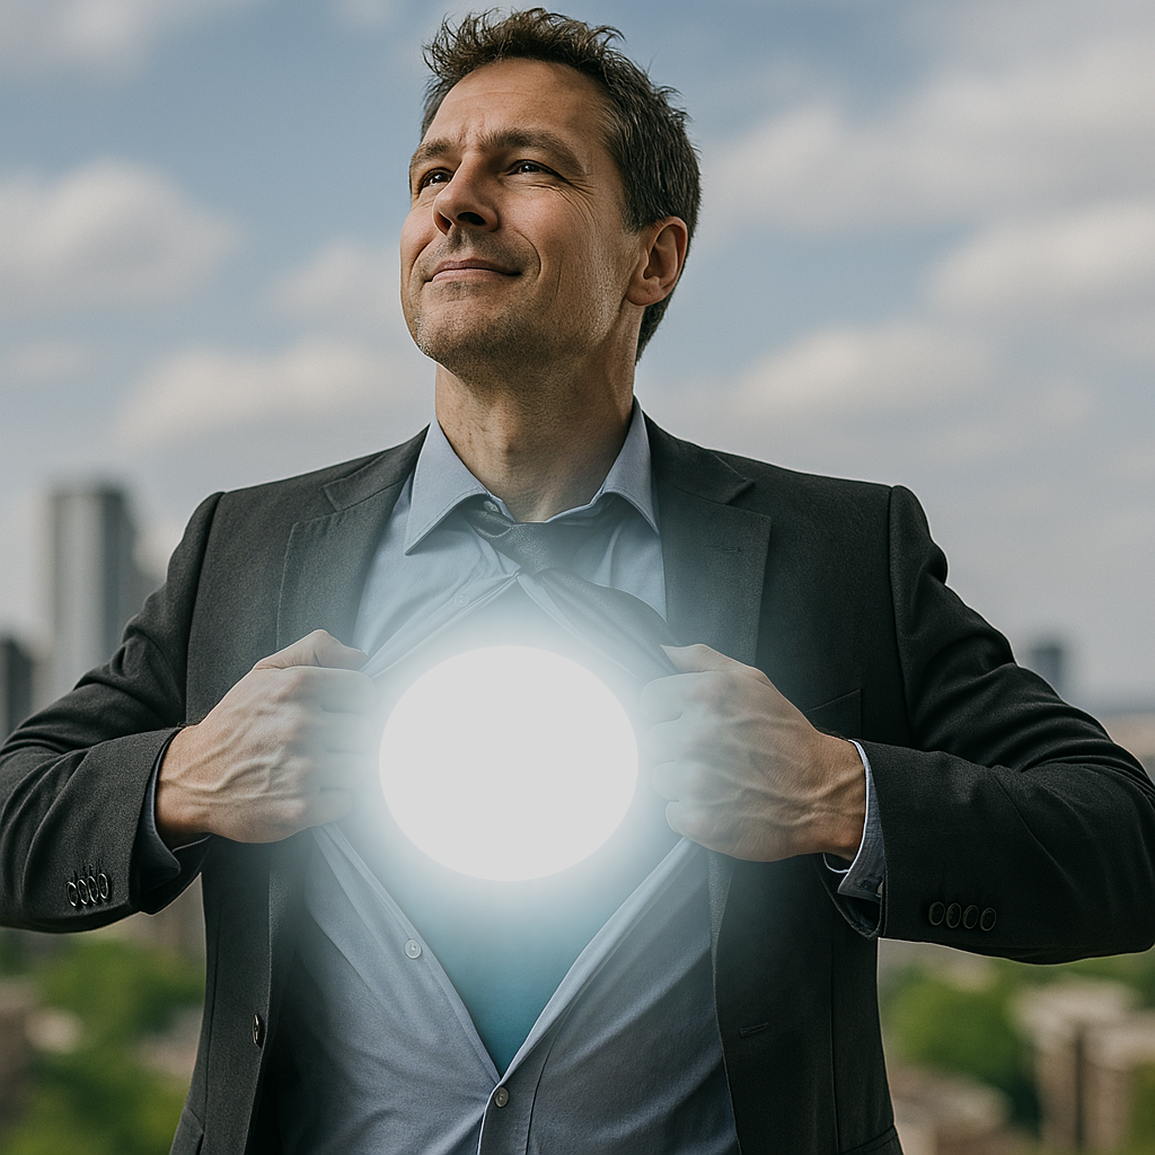
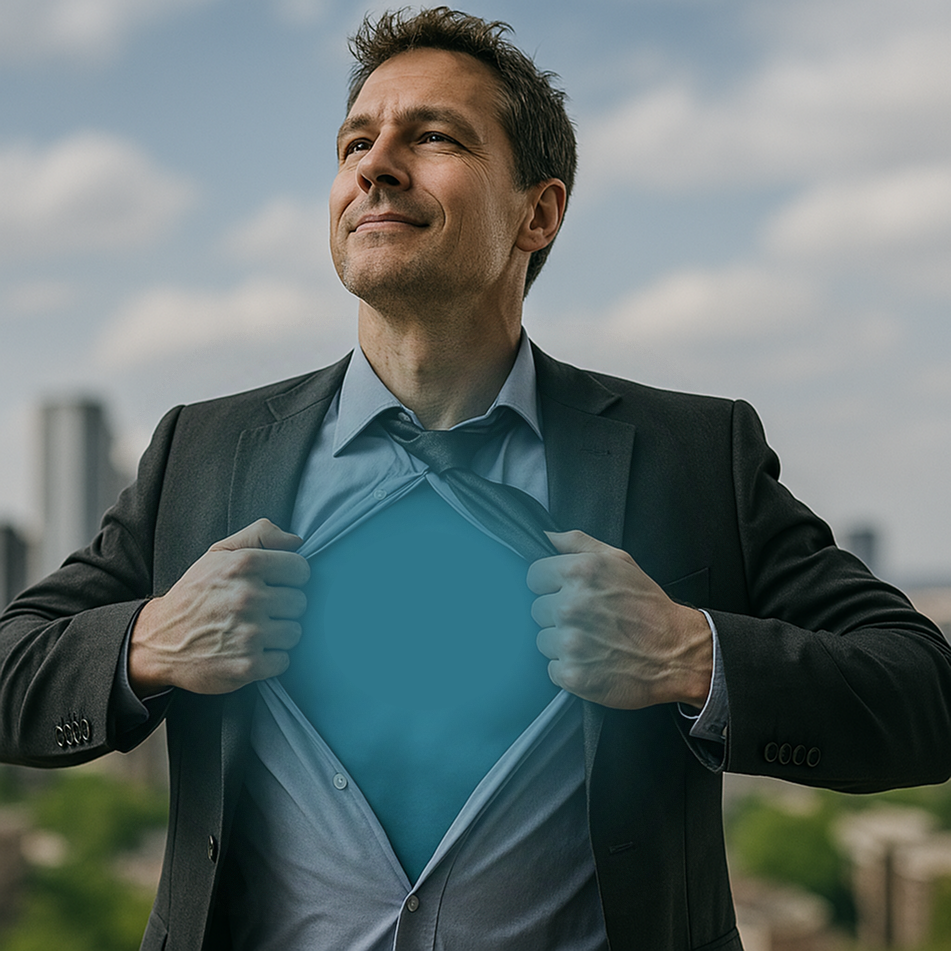
done

diff --git a/src/components/Approach.css b/src/components/Approach.css
@@ -254,6 +254,65 @@
   box-shadow: 0 20px 60px rgba(0, 0, 0, 0.3);
 }
 
+/* Floating Spinning Logo */
+.floating-logo {
+  position: absolute;
+  top: 65%;
+  left: 44%;
+  transform: translate(-50%, -50%);
+  width: 180px;
+  height: 170px;
+  z-index: 10;
+  animation: floatAndSpin 4s ease-in-out infinite;
+  filter: drop-shadow(0 0 20px rgba(255, 255, 255, 0.8))
+          drop-shadow(0 0 40px rgba(255, 255, 255, 0.5))
+          drop-shadow(0 0 60px rgba(255, 255, 255, 0.3));
+}
+
+.floating-logo img {
+  width: 100%;
+  height: 100%;
+  object-fit: contain;
+  border-radius: 0;
+  box-shadow: none;
+}
+
+@keyframes floatAndSpin {
+  0% {
+    transform: translate(-50%, -50%) translateY(0px) rotate(0deg);
+    filter: drop-shadow(0 0 20px rgba(255, 255, 255, 0.8))
+            drop-shadow(0 0 40px rgba(255, 255, 255, 0.5))
+            drop-shadow(0 0 60px rgba(255, 255, 255, 0.3));
+  }
+  50% {
+    transform: translate(-50%, -50%) translateY(-15px) rotate(180deg);
+    filter: drop-shadow(0 0 30px rgba(255, 255, 255, 1))
+            drop-shadow(0 0 50px rgba(255, 255, 255, 0.7))
+            drop-shadow(0 0 80px rgba(255, 255, 255, 0.4));
+  }
+  100% {
+    transform: translate(-50%, -50%) translateY(0px) rotate(360deg);
+    filter: drop-shadow(0 0 20px rgba(255, 255, 255, 0.8))
+            drop-shadow(0 0 40px rgba(255, 255, 255, 0.5))
+            drop-shadow(0 0 60px rgba(255, 255, 255, 0.3));
+  }
+}
+
+/* Responsive floating logo */
+@media (max-width: 968px) {
+  .floating-logo {
+    width: 120px;
+    height: 110px;
+  }
+}
+
+@media (max-width: 576px) {
+  .floating-logo {
+    width: 80px;
+    height: 75px;
+  }
+}
+
 .approach-benefits {
   opacity: 0;
   transform: translateX(30px);

diff --git a/src/components/Approach.jsx b/src/components/Approach.jsx
@@ -113,7 +113,10 @@ function Approach() {
 
         <div className="approach-content">
           <div className={`approach-image ${isVisible ? 'animate-left' : 'loading'}`}>
-            <img src="/images/3 X Deeper transformation in half the time of conventional methods.png" alt="Deeper transformation" />
+            <img src="/images/super-piers.png" alt="Deeper transformation" />
+            <div className="floating-logo">
+              <img src="/images/Quality Of Mind Transparent logo.svg" alt="Quality of Mind" />
+            </div>
           </div>
 
           <div className={`approach-benefits ${isVisible ? 'animate-right' : 'loading'}`}>
